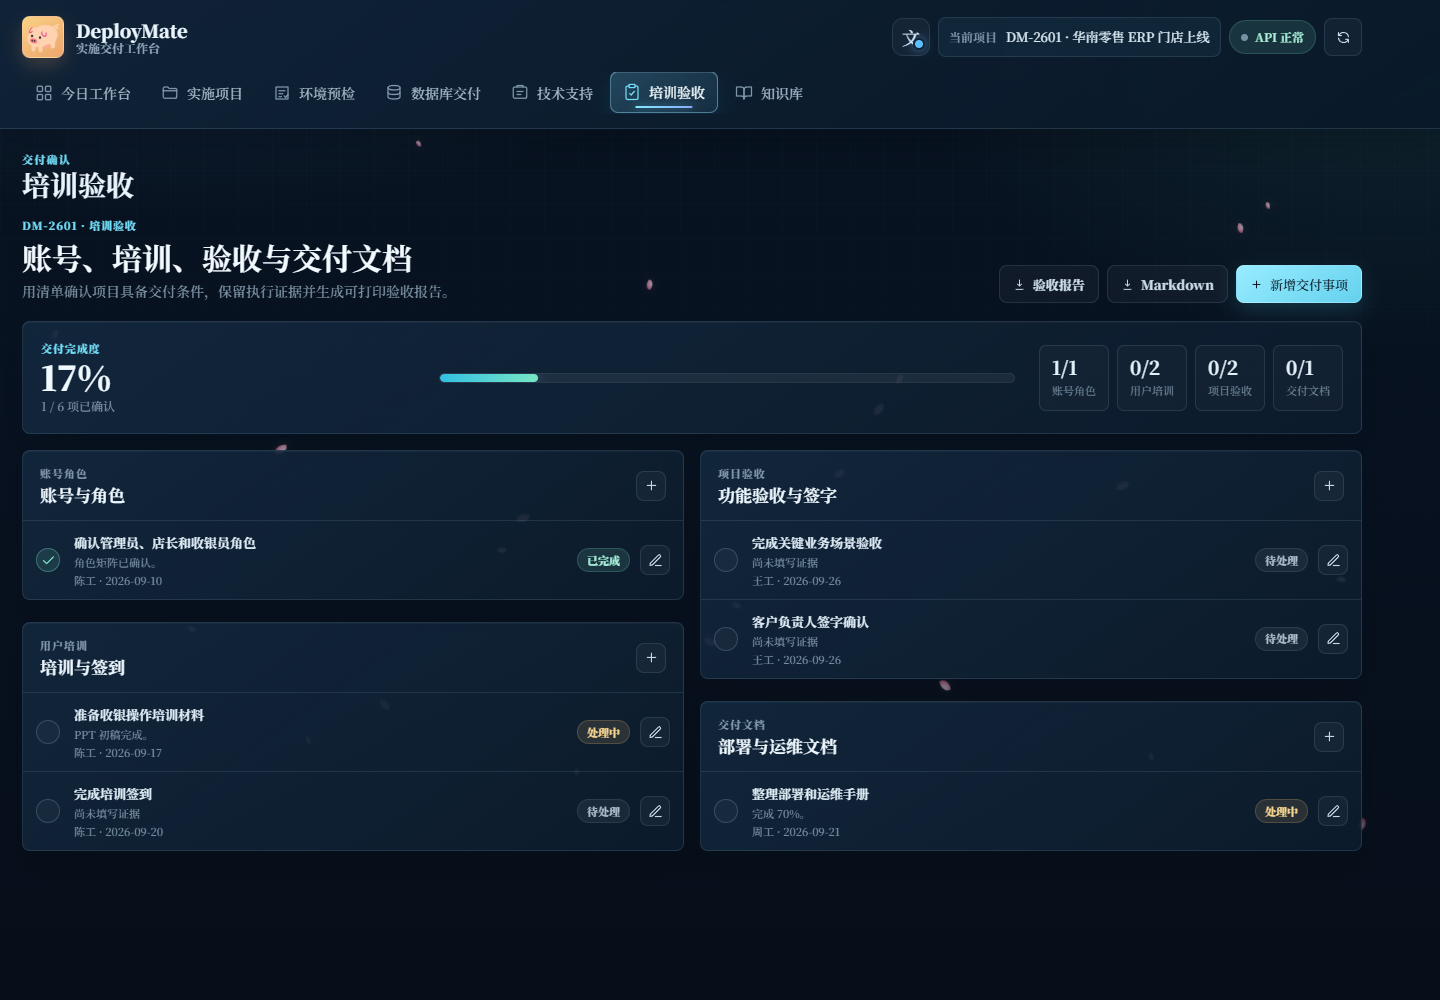
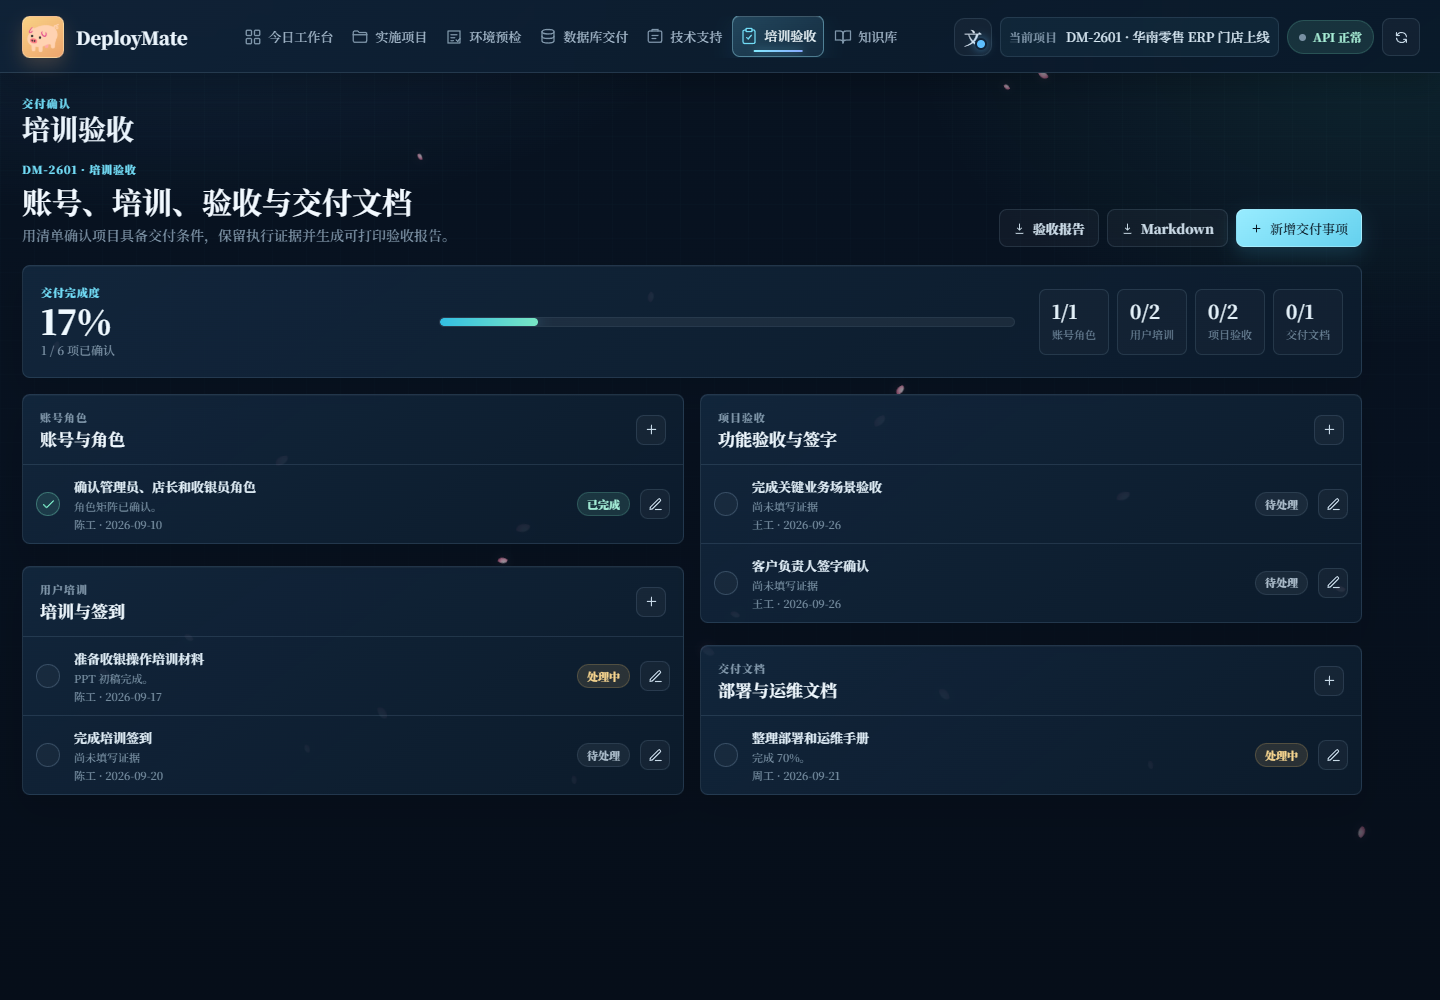
style: 调整顶部导航为单行布局

diff --git a/public/styles.css b/public/styles.css
@@ -3104,11 +3104,11 @@ html[data-font-mode="literary"] h4 {
   border-bottom: 1px solid rgba(158, 190, 218, 0.16);
   box-shadow: 0 12px 34px rgba(0, 0, 0, 0.18);
   display: grid;
-  gap: 14px 18px;
+  gap: 14px 14px;
   grid-template-columns: auto minmax(0, 1fr) auto;
   margin: 0 auto;
   max-width: var(--shell-max);
-  padding: 16px 78px 14px 22px;
+  padding: 16px 24px 14px 22px;
   position: relative;
 }
 
@@ -3128,7 +3128,8 @@ html[data-font-mode="literary"] h4 {
 .main-nav {
   align-items: center;
   display: flex;
-  gap: 4px;
+  gap: 2px;
+  justify-content: safe center;
   min-width: 0;
   overflow-x: auto;
   scrollbar-width: none;
@@ -3606,14 +3607,27 @@ html[data-font-mode="original"] .font-toggle::after {
 .companion-pig { height: 56px; width: 56px; }
 .companion-bubble { font-size: 11px; }
 
-@media (max-width: 1280px) {
+@media (max-width: 1500px) {
   .app-header {
-    grid-template-columns: auto minmax(0, 1fr);
+    gap: 8px 12px;
+    grid-template-columns: auto minmax(0, 1fr) auto;
     padding-right: 20px;
   }
 
-  .app-header-actions { grid-column: 2; grid-row: 1; }
-  .main-nav { grid-column: 1 / -1; grid-row: 2; }
+  .app-header .brand { padding-right: 0; }
+  .app-header .brand-copy small { display: none; }
+  .app-header .main-nav { gap: 2px; }
+  .app-header .nav-item { font-size: 13px; gap: 6px; padding: 0 7px; }
+  .app-header .project-switcher { padding: 0 8px; }
+  .app-header .project-switcher select { max-width: 210px; min-width: 150px; }
+}
+
+@media (max-width: 1320px) {
+  .app-header .nav-item > [data-icon] { display: none; }
+  .app-header .nav-item { gap: 0; padding: 0 8px; }
+}
+
+@media (max-width: 1280px) {
   .workspace { padding-right: 72px; }
 }
 
@@ -3689,33 +3703,17 @@ html[data-font-mode="original"] .font-toggle::after {
   .handover-grid > .handover-group { margin-bottom: 14px; }
 }
 
-/* Give every navigation label a dedicated full-width row instead of squeezing it beside project controls. */
-.app-header {
-  grid-template-columns: auto minmax(0, 1fr);
-}
-
+/* Keep the desktop header in one row: brand, centered navigation, and controls. */
+.app-header .brand,
 .app-header-actions {
-  grid-column: 2;
-  grid-row: 1;
+  flex: 0 0 auto;
 }
 
 .app-header .main-nav {
-  grid-column: 1 / -1;
-  grid-row: 2;
+  flex: 1 1 auto;
 }
 
 @media (max-width: 760px) {
   .app-header-actions { grid-column: 1; grid-row: 2; }
   .app-header .main-nav { grid-column: 1; grid-row: 3; }
-}
-
-@media (max-width: 760px) {
-  .app-header .main-nav {
-    flex-wrap: wrap;
-    overflow: visible;
-  }
-
-  .app-header .nav-item {
-    flex: 0 0 auto;
-  }
 }
